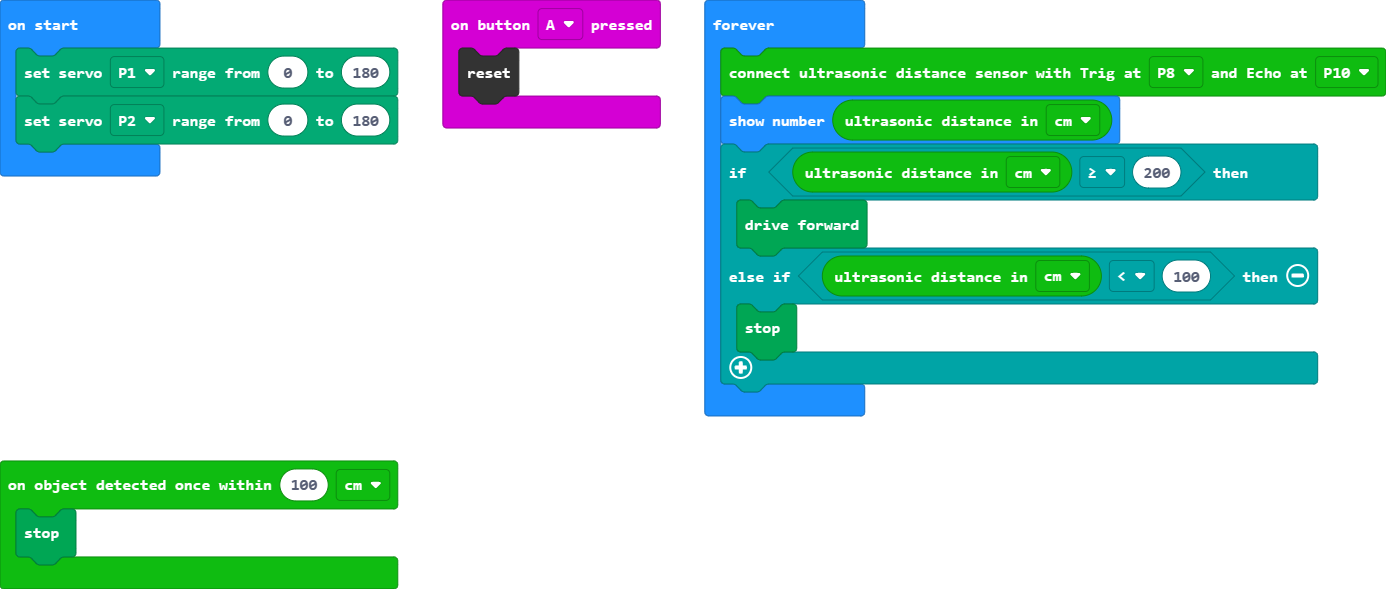
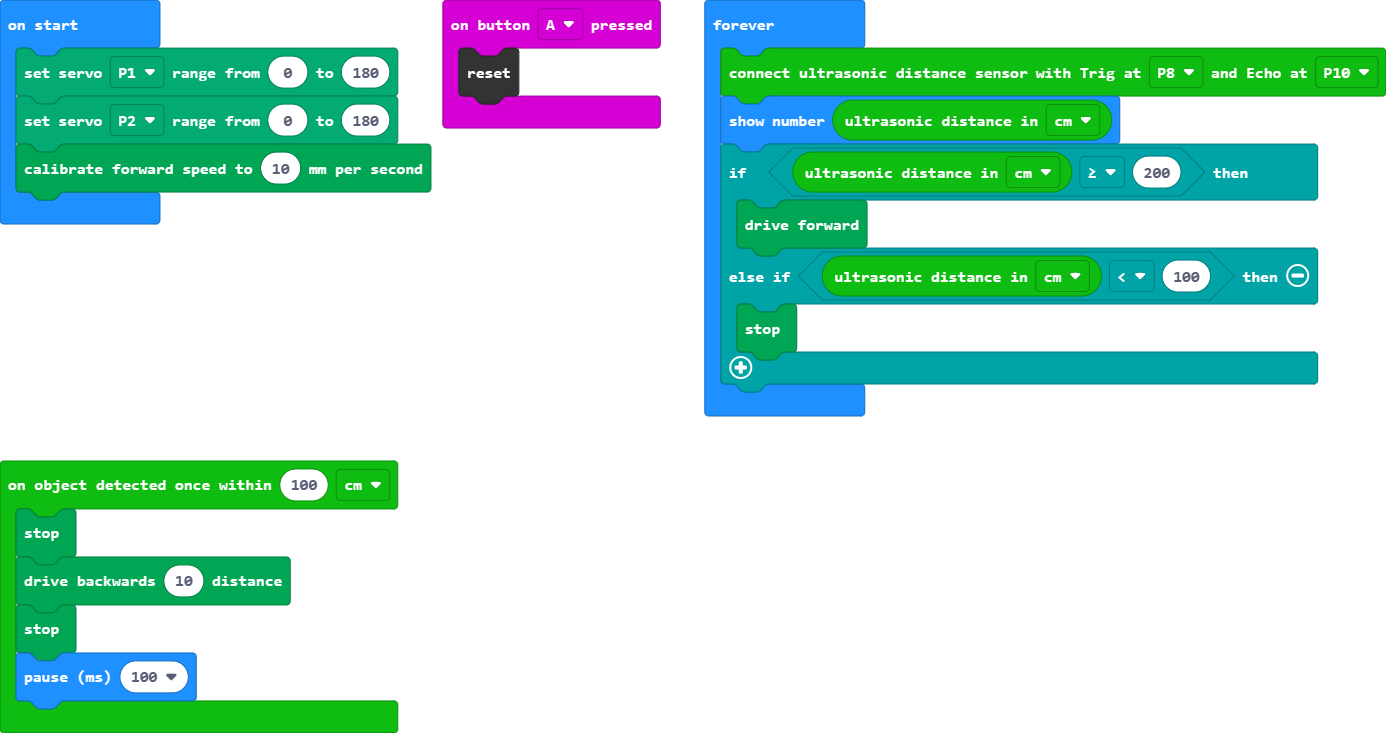
Update main.blocks, main.ts

Changed region(s): [[0.0, 0.0306, 1.0, 0.7334], [0.0, 0.6112, 0.3102, 0.9779]]

diff --git a/main.ts b/main.ts
@@ -3,9 +3,13 @@ input.onButtonPressed(Button.A, function () {
 })
 makerbit.onUltrasonicObjectDetected(100, DistanceUnit.CM, function () {
     kitronik_servo_lite.stop()
+    kitronik_servo_lite.driveBackwards(10)
+    kitronik_servo_lite.stop()
+    basic.pause(100)
 })
 servos.P1.setRange(0, 180)
 servos.P2.setRange(0, 180)
+kitronik_servo_lite.setDistancePerSecond(10)
 basic.forever(function () {
     makerbit.connectUltrasonicDistanceSensor(DigitalPin.P8, DigitalPin.P10)
     basic.showNumber(makerbit.getUltrasonicDistance(DistanceUnit.CM))
